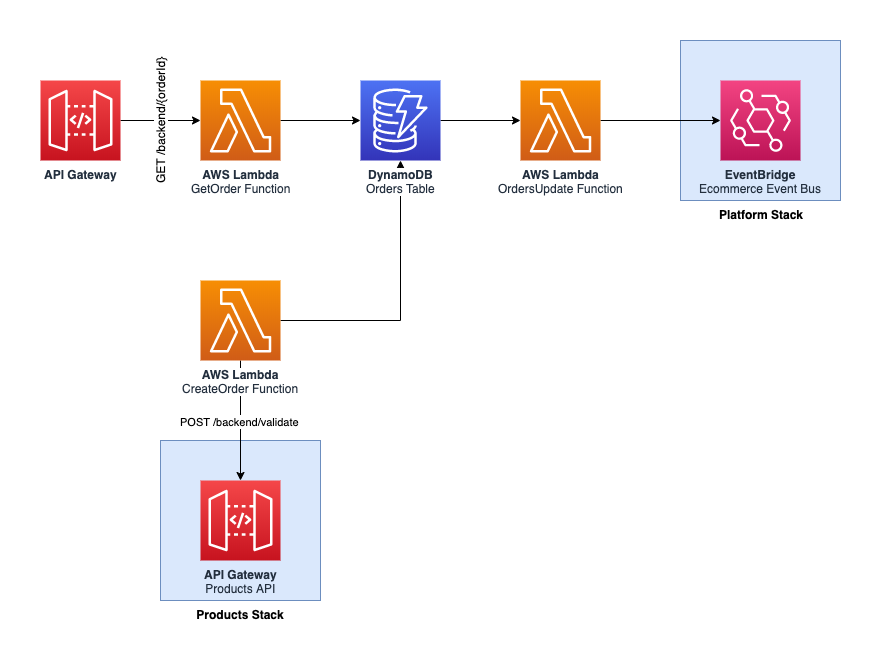
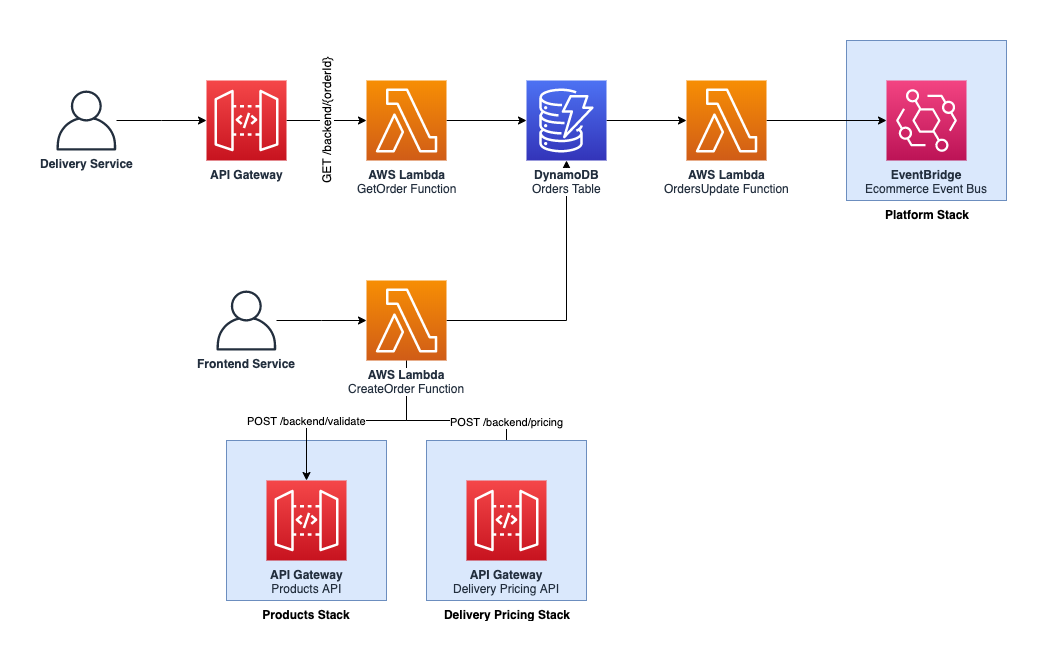
orders: integrate create_order with delivery
With this change, the create_order function checks the delivery-pricing
service for the deliveryPrice.

Changed region(s): [[0.0306, 0.0605, 0.9807, 0.3328], [0.1839, 0.4236, 0.4597, 0.938], [0.3984, 0.6354, 0.5823, 0.938]]

diff --git a/tests/integ/test_create_order.py b/tests/integ/test_create_order.py
@@ -2,8 +2,14 @@ import copy
 import json
 import boto3
 import pytest
-from fixtures import get_order, get_product # pylint: disable=import-error,no-name-in-module
+import requests
+from fixtures import iam_auth, get_order, get_product # pylint: disable=import-error,no-name-in-module
 from helpers import compare_dict, get_parameter # pylint: disable=import-error,no-name-in-module
+
+
+@pytest.fixture(scope="module")
+def delivery_api_url():
+    return get_parameter("/ecommerce/{Environment}/delivery-pricing/api/url")
 
 
 @pytest.fixture(scope="module")
@@ -45,16 +51,30 @@ def products(product_table_name, get_product):
         table.delete_item(Key={"productId": product["productId"]})
 
 
-@pytest.fixture(scope="function")
-def order_request(get_order, products):
-    order = get_order()
+@pytest.fixture
+def delivery_price(delivery_api_url, iam_auth, order, products):
+    res = requests.post(
+        url=delivery_api_url+"/backend/pricing",
+        auth=iam_auth(delivery_api_url),
+        json={
+            "products": products,
+            "address": order["address"]
+        }
+    )
 
+    body = res.json()
+    print(body)
+
+    return body["pricing"]
+
+@pytest.fixture(scope="function")
+def order_request(order, products, delivery_price):
     return {
         "userId": order["userId"],
         "order": {
             "products": products,
             "address": order["address"],
-            "deliveryPrice": order["deliveryPrice"],
+            "deliveryPrice": delivery_price,
             "paymentToken": order["paymentToken"]
         }
     }
@@ -99,13 +119,38 @@ def test_create_order(function_arn, table_name, order_request):
     response = table.get_item(Key={"orderId": response["order"]["orderId"]})
 
 
-def test_create_order_fail(function_arn, table_name, order_request, get_product):
+def test_create_order_fail_products(function_arn, table_name, order_request, get_product):
     """
     Test the CreateOrder function
     """
 
     order_request = copy.deepcopy(order_request)
     order_request["order"]["products"] = [get_product()]
+
+    lambda_ = boto3.client("lambda")
+
+    # Trigger the function
+    response = lambda_.invoke(
+        FunctionName=function_arn,
+        InvocationType="RequestResponse",
+        Payload=json.dumps(order_request).encode()
+    )
+    response = json.load(response["Payload"])
+
+    print(response)
+
+    # Check the output of the Function
+    assert response["success"] == False
+    assert len(response.get("errors", [])) > 0
+
+
+def test_create_order_fail_delivery_price(function_arn, table_name, order_request, get_product):
+    """
+    Test the CreateOrder function
+    """
+
+    order_request = copy.deepcopy(order_request)
+    order_request["order"]["deliveryPrice"] += 200
 
     lambda_ = boto3.client("lambda")
 

diff --git a/tests/unit/test_create_order.py b/tests/unit/test_create_order.py
@@ -15,6 +15,7 @@ lambda_module = pytest.fixture(scope="module", params=[{
     "module_name": "main",
     "environ": {
         "ENVIRONMENT": "test",
+        "DELIVERY_API_URL": "mock://DELIVERY_API_URL",
         "PRODUCTS_API_URL": "mock://PRODUCTS_API_URL",
         "TABLE_NAME": "TABLE_NAME",
         "POWERTOOLS_TRACE_DISABLED": "true"
@@ -49,6 +50,69 @@ def test_inject_order_fields(lambda_module, order):
     assert new_order["total"] == sum([p["price"]*p.get("quantity", 1) for p in order["products"]]) + order["deliveryPrice"]
 
 
+def test_validate_delivery(lambda_module, order):
+    """
+    Test validate_delivery()
+    """
+
+    url = "mock://DELIVERY_API_URL/backend/pricing"
+
+    with requests_mock.Mocker() as m:
+        m.post(url, text=json.dumps({"pricing": order["deliveryPrice"]}))
+
+        valid, error_msg = asyncio.run(lambda_module.validate_delivery(order))
+
+    print(valid, error_msg)
+
+    assert m.called
+    assert m.call_count == 1
+    assert m.request_history[0].method == "POST"
+    assert m.request_history[0].url == url
+    assert valid == True
+
+
+def test_validate_delivery_incorrect(lambda_module, order):
+    """
+    Test validate_delivery() with incorrect price
+    """
+
+    url = "mock://DELIVERY_API_URL/backend/pricing"
+
+    with requests_mock.Mocker() as m:
+        m.post(url, text=json.dumps({"pricing": order["deliveryPrice"]+200}))
+
+        valid, error_msg = asyncio.run(lambda_module.validate_delivery(order))
+
+    print(valid, error_msg)
+
+    assert m.called
+    assert m.call_count == 1
+    assert m.request_history[0].method == "POST"
+    assert m.request_history[0].url == url
+    assert valid == False
+
+
+def test_validate_delivery_fail(lambda_module, order):
+    """
+    Test validate_delivery() failing
+    """
+
+    url = "mock://DELIVERY_API_URL/backend/pricing"
+
+    with requests_mock.Mocker() as m:
+        m.post(url, text=json.dumps({"message": "Something went wrong"}), status_code=400)
+
+        valid, error_msg = asyncio.run(lambda_module.validate_delivery(order))
+
+    print(valid, error_msg)
+
+    assert m.called
+    assert m.call_count == 1
+    assert m.request_history[0].method == "POST"
+    assert m.request_history[0].url == url
+    assert valid == False
+
+
 def test_validate_products(lambda_module, order):
     """
     Test validate_products()
@@ -68,7 +132,6 @@ def test_validate_products(lambda_module, order):
     assert m.request_history[0].method == "POST"
     assert m.request_history[0].url == url
     assert valid == True
-    assert error_msg == "All products are valid"
 
 
 def test_validate_products_fail(lambda_module, order):

diff --git a/src/create_order/main.py b/src/create_order/main.py
@@ -19,9 +19,10 @@ from aws_lambda_powertools.logging import logger_setup, logger_inject_lambda_con
 
 
 ENVIRONMENT = os.environ["ENVIRONMENT"]
-PRODUCTS_API_URL = os.environ["PRODUCTS_API_URL"]
 SCHEMA_FILE = os.path.join(os.path.dirname(__file__), "schema.json")
 TABLE_NAME = os.environ["TABLE_NAME"]
+DELIVERY_API_URL = os.environ["DELIVERY_API_URL"]
+PRODUCTS_API_URL = os.environ["PRODUCTS_API_URL"]
 
 
 dynamodb = boto3.resource("dynamodb") # pylint: disable=invalid-name
@@ -40,8 +41,44 @@ async def validate_delivery(order: dict) -> Tuple[bool, str]:
     Validate the delivery price
     """
 
-    # TODO
-    return (True, "")
+    # Gather the domain name and AWS region
+    url = urlparse(DELIVERY_API_URL)
+    region = boto3.session.Session().region_name
+    # Create the signature helper
+    iam_auth = BotoAWSRequestsAuth(aws_host=url.netloc,
+                                   aws_region=region,
+                                   aws_service='execute-api')
+
+    # Send a POST request
+    response = requests.post(
+        DELIVERY_API_URL+"/backend/pricing",
+        json={"products": order["products"], "address": order["address"]},
+        auth=iam_auth
+    )
+
+    logger.debug({
+        "message": "Response received from delivery",
+        "body": response.json()
+    })
+
+    body = response.json()
+    if response.status_code != 200 or "pricing" not in body:
+        logger.warning({
+            "message": "Failure to contact the delivery service",
+            "statusCode": response.status_code,
+            "body": body
+        })
+        return (False, "Failure to contact the delivery service")
+
+    if body["pricing"] != order["deliveryPrice"]:
+        logger.info({
+            "message": "Wrong delivery price: got {}, expected {}".format(order["deliveryPrice"], body["pricing"]),
+            "orderPrice": order["deliveryPrice"],
+            "deliveryPrice": body["pricing"]
+        })
+        return (False, "Wrong delivery price: got {}, expected {}".format(order["deliveryPrice"], body["pricing"]))
+
+    return (True, "The delivery price is valid")
 
 
 @tracer.capture_method

diff --git a/README.md b/README.md
@@ -1,7 +1,9 @@
 Orders service
 ==============
 
-![Orders architecture diagram](images/orders.png)
+<p align="center">
+    <img alt="Orders architecture diagram" src="images/orders.png"/>
+</p>
 
 ## API
 
